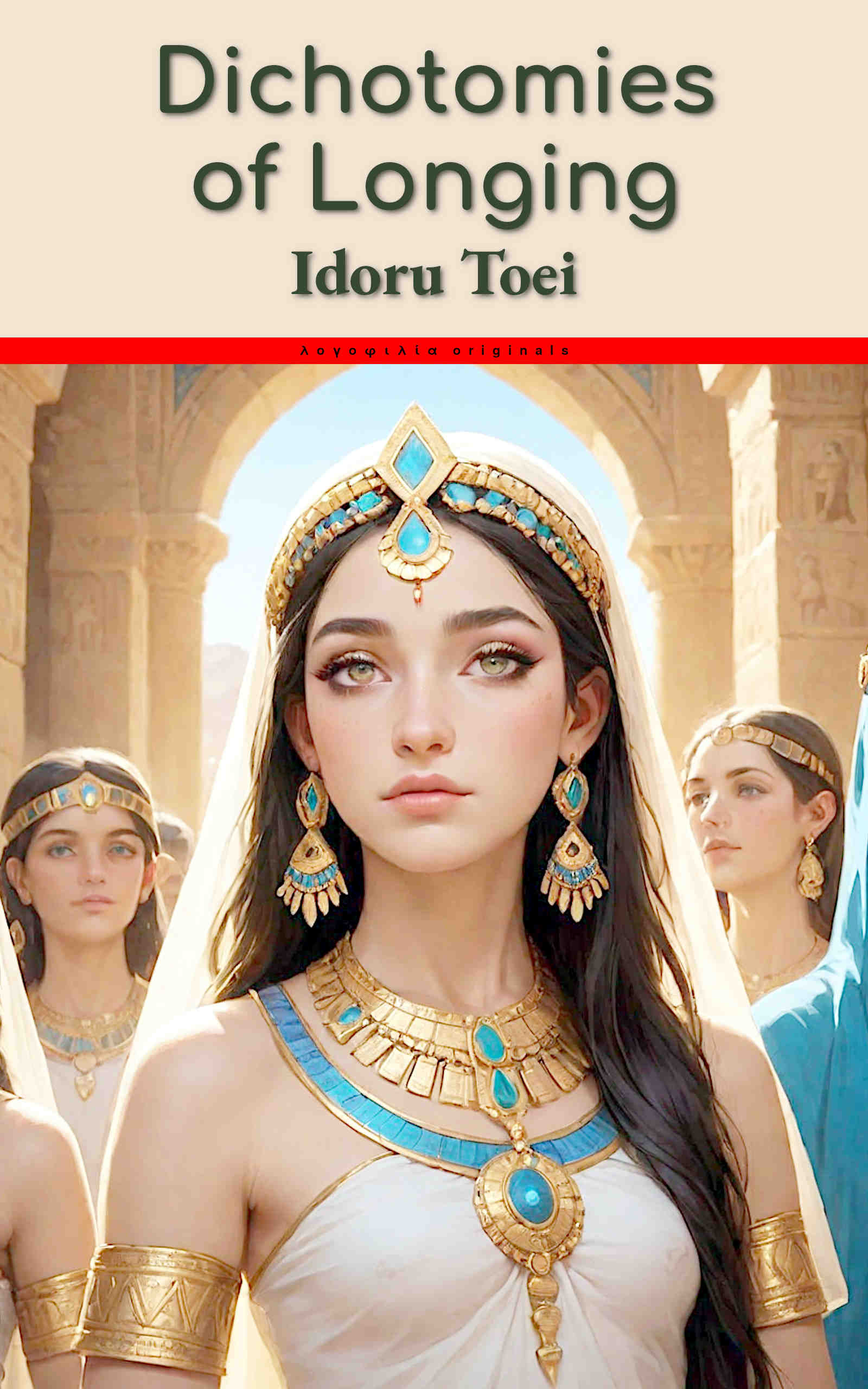
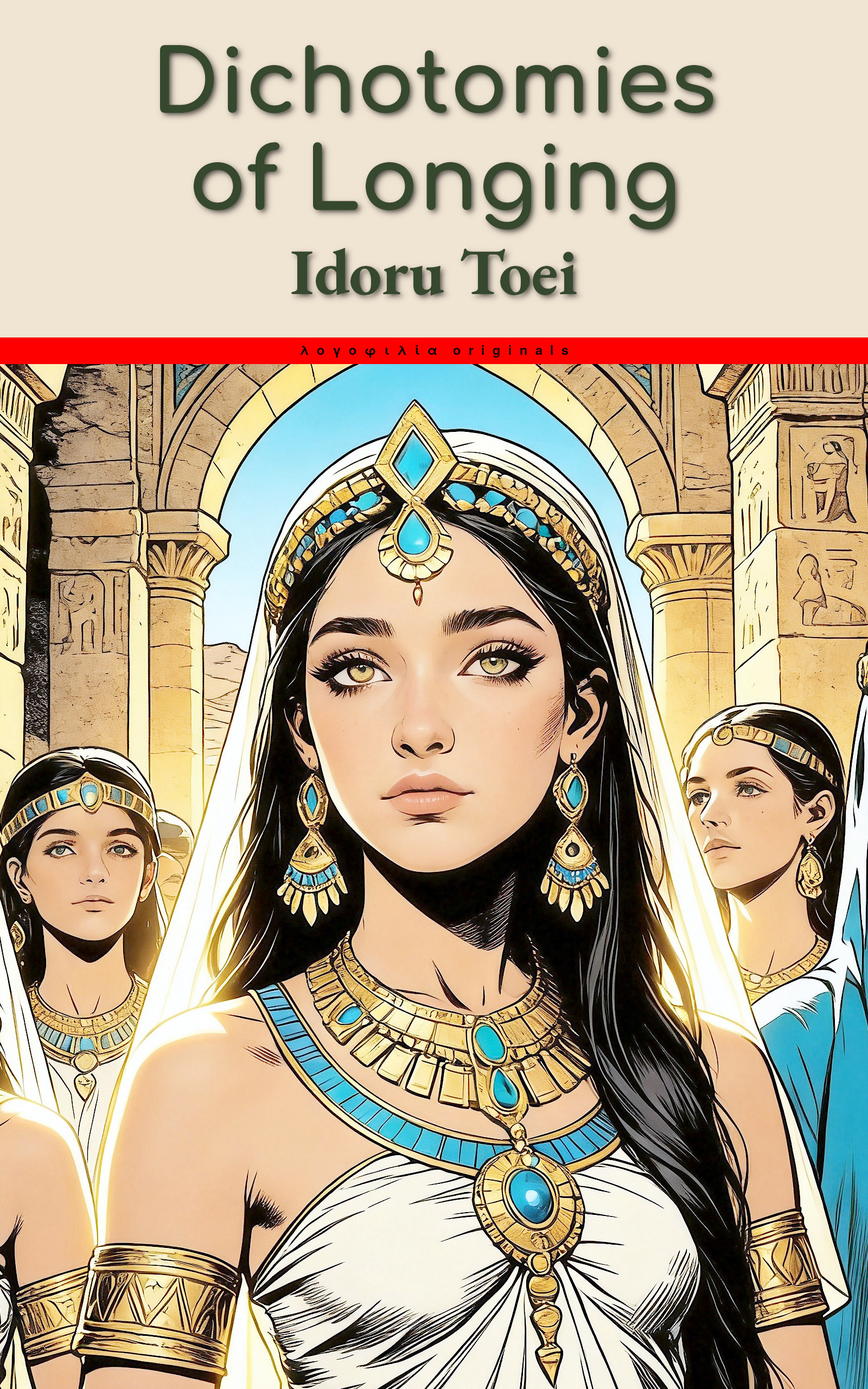
Dichotomie of Longing update

diff --git a/content/publications/dichotomies-of-longing.html b/content/publications/dichotomies-of-longing.html
@@ -4,7 +4,10 @@ title = 'Dichotomies of Longing'
 cross-reference-authors = ['Idoru Toei', 'Eduard Pech']
 cross-reference-stories = ['Ishtar’s Bride', 'A Life Consumed', 'Snow on a Summer Night', 'Dichotomy of Longing', 'Quiet Reassurance', 'Nothing', 'Transcendence']
 +++
-(coming soon)
+<p><a href="https://lphi.top/dol" target="_blank">Get it on Amazon</a></p>
+
+<p><a href="https://lphi.top/p-dolost" target="_blank">Free OST playlist on Youtube</a></p>
+
 {{< publication-cover
     src="img/publications/Dichotomies of Longing.jpg"
     alt="Illustration by Eduard Pech"
